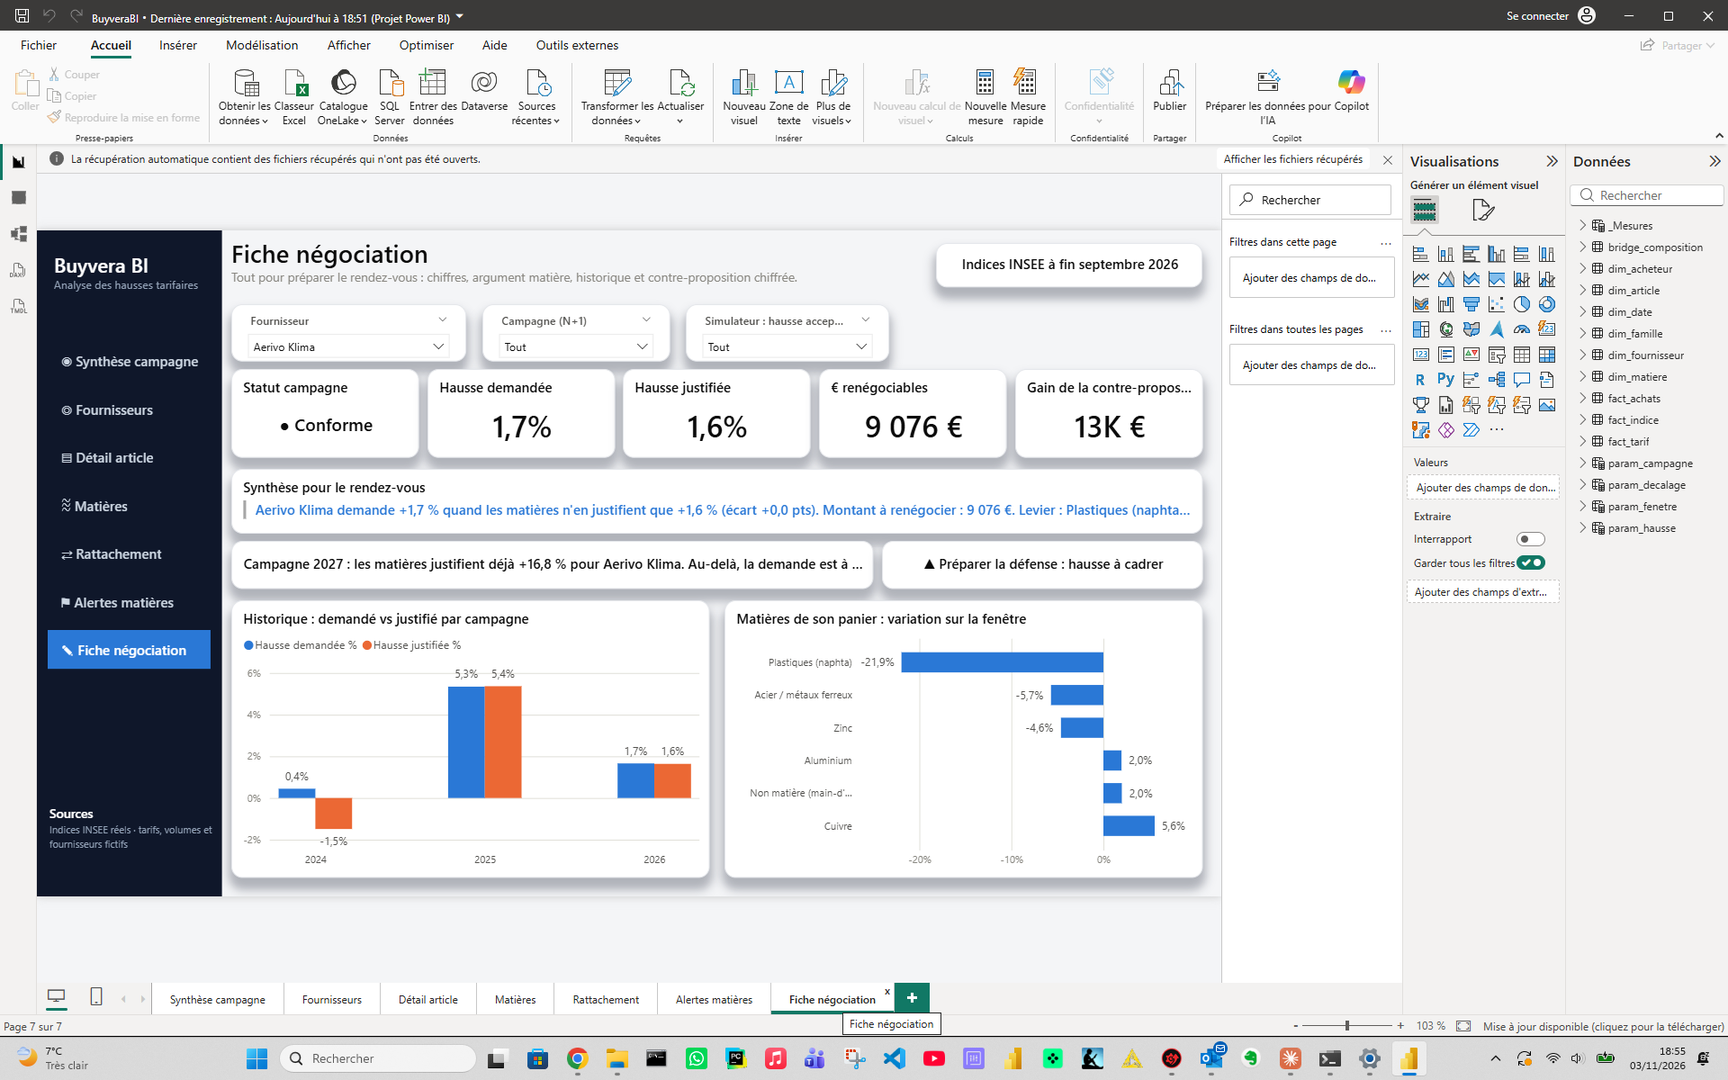
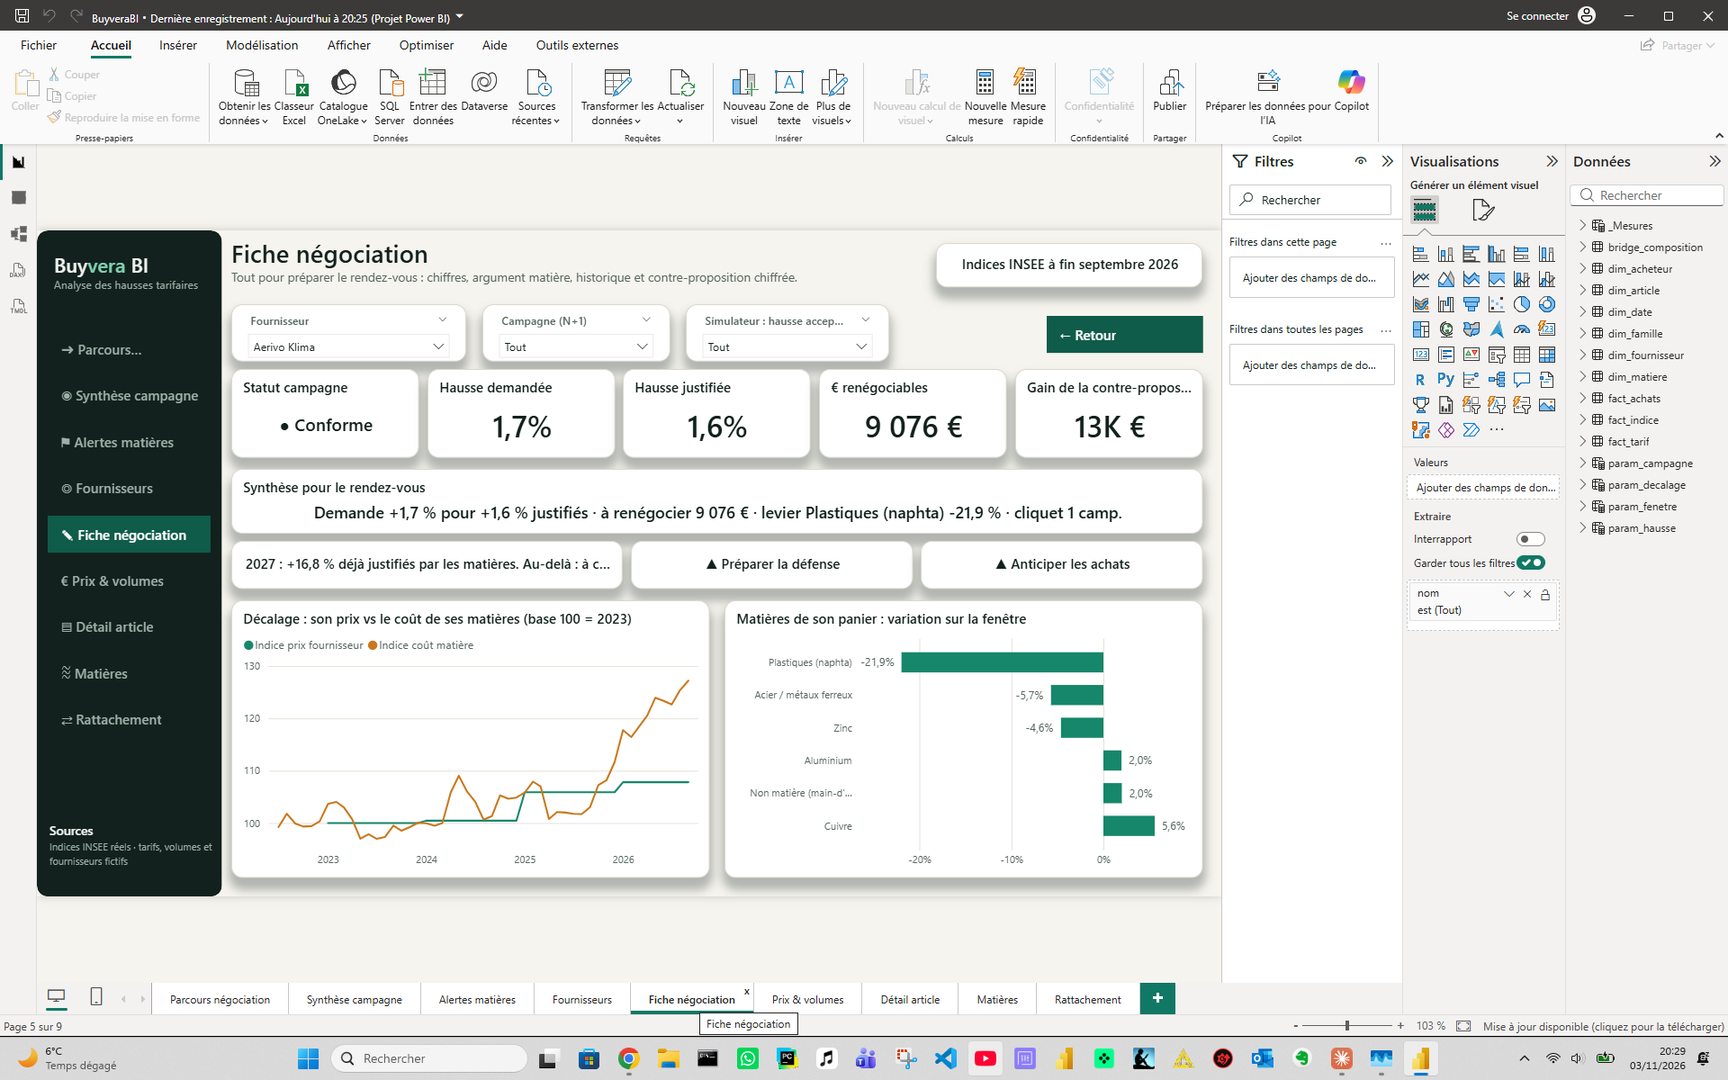
Buyvera : parcours de négociation, prix et volumes année sur année, décalage, extraction
- Couleurs Buyvera (vert marque, menthe, ambre signal, papier) ; palette de séries validée
- Page Parcours négociation : 5 étapes reliées aux pages, chiffres clés, courbe de décalage
- Page Prix & volumes : montant, volumes, effet prix à volumes constants vs N-1 à date
- Courbes prix fournisseur vs coût matière (fact_indice_fournisseur, base 100 = 2023)
- Extraction (clic droit) vers Fiche négociation et Détail article, boutons Retour
- Fiche : courbe de décalage, matières colorées baisse / hausse

diff --git a/scripts/build_pbip.py b/scripts/build_pbip.py
@@ -654,6 +654,10 @@ RETURN
      """VAR _t = FILTER ( fact_achats, NOT ISBLANK ( fact_achats[prix_unitaire] ) && NOT ISBLANK ( fact_achats[prix_unitaire_n1] ) )
 RETURN
     SUMX ( _t, fact_achats[quantite] * ( fact_achats[prix_unitaire] - fact_achats[prix_unitaire_n1] ) )"""),
+    ("Couleur variation", "6. Négociation", "", "Vert marque si la matière baisse (levier acheteur), ambre signal si elle monte.",
+     """VAR _v = [Variation matière article %]
+RETURN
+    IF ( ISBLANK ( _v ), "#56655F", IF ( _v < 0, "#0F5C4A", "#C9781C" ) )"""),
     ("Nb fournisseurs à renégocier", "6. Négociation", "0", "Fournisseurs dont l'écart dépasse 3 points.",
      "COUNTROWS ( FILTER ( VALUES ( dim_fournisseur[nom] ), [Écart pts] > 3 ) )"),
     ("Conseil appro", "7. Alertes", "",
@@ -891,7 +895,7 @@ PAGES = [
         v("lineChart", 20, 260, 610, 440,
           {"Category": [("c", "dim_date", "mois_court")], "Series": [("c", "dim_date", "annee")], "Y": [m("Quantité achetée")]},
           titre="Volumes par mois : une courbe par année", ordre=(("c", "dim_date", "mois_court"), 1),
-          filtres=[(("c", "dim_date", "annee"), [2023, 2024, 2025, 2026])]),
+          filtres=[(("c", "dim_date", "annee"), [2024, 2025, 2026])]),
         v("tableEx", 650, 260, 610, 440,
           {"Values": [FOURN, m("Montant achats"), m("Évol. montant %"), m("Évol. volume %"), m("Effet prix %"), m("Surcoût prix €")]},
           titre="Par fournisseur, 2026 à date vs 2025 · clic droit → Extraire → Fiche", ordre=(m("Surcoût prix €"), 2),
@@ -922,8 +926,8 @@ PAGES = [
           titre="Décalage : son prix vs le coût de ses matières (base 100 = 2023)", objets={"continu": True}),
         v("clusteredBarChart", 650, 400, 610, 300,
           {"Category": [("c", "dim_matiere", "libelle")], "Y": [m("Variation matière article %")]},
-          titre="Matières de son panier : variation sur la fenêtre", ordre=(m("Variation matière article %"), 1),
-          objets={"labels": True}),
+          titre="Matières de son panier : vert = baisse (levier), ambre = hausse", ordre=(m("Variation matière article %"), 1),
+          objets={"labels": True, "couleur_barres": "Couleur variation"}),
     ]),
 ]
 
@@ -947,6 +951,7 @@ ORDRE = ["Parcours négociation", "Synthèse campagne", "Alertes matières", "Fo
          "Prix & volumes", "Détail article", "Matières", "Rattachement"]
 PAGES.sort(key=lambda p: ORDRE.index(p[0]))
 ICONES = ["➜", "◉", "⚑", "◎", "✎", "€", "▤", "≋", "⇄"]
+COURT = {"Parcours négociation": "Parcours"}  # libellés de navigation raccourcis
 # Pages cibles d'extraction (clic droit → Extraire) : champ transmis
 EXTRACTION = {"Fiche négociation": ("dim_fournisseur", "nom"), "Détail article": ("dim_article", "designation")}
 
@@ -1020,7 +1025,7 @@ def barre_navigation(page: int) -> list[dict]:
            objets={"blanc": True})]
     for i, (nom, _) in enumerate(PAGES):
         l.append(v("nav", 12, 108 + i * 50, LARGEUR_NAV - 24, 40,
-                   objets={"cible": i, "texte": f"{ICONES[i]}   {nom}", "actif": i == page}))
+                   objets={"cible": i, "texte": f"{ICONES[i]}   {COURT.get(nom, nom)}", "actif": i == page}))
     l.append(v("textbox", 14, 640, 180, 70,
                texte=("Sources", "Indices INSEE réels · tarifs, volumes et fournisseurs fictifs"),
                objets={"blanc": True, "petit": True}))

diff --git a/docs/dictionnaire.md b/docs/dictionnaire.md
@@ -2,7 +2,7 @@
 
 Généré par `scripts/export_dictionary.py` depuis le modèle TMDL (`pbip/BuyveraBI.SemanticModel`). Ne pas modifier à la main.
 
-17 tables · 80 colonnes · 53 mesures · 14 relations · 2 rôles
+18 tables · 86 colonnes · 64 mesures · 16 relations · 2 rôles
 
 ## Sommaire
 
@@ -18,6 +18,7 @@ Généré par `scripts/export_dictionary.py` depuis le modèle TMDL (`pbip/Buyve
 - [fact_hausse_article](#fact_hausse_article) — Précalcul (scripts/precalcul_hausses.py) : hausse par article pour chaque campagne N+1, fenêtre et décalage. Rend les mesures instantanées.
 - [fact_impact_matiere](#fact_impact_matiere) — Précalcul : surcoût justifié par chaque matière pour chaque article à la prochaine campagne.
 - [fact_indice](#fact_indice) — Indices matières mensuels réels (INSEE BDM) et série d'hypothèse non matière à 2 %/an.
+- [fact_indice_fournisseur](#fact_indice_fournisseur) — Précalcul : indice mensuel par fournisseur (base 100 = tarif 2023) du prix fournisseur et du coût matière de son panier. L'écart montre le décalage de répercussion.
 - [fact_tarif](#fact_tarif) — Prix brut public par article et par campagne tarifaire (synthétique).
 - [param_campagne](#param_campagne) — Campagne N+1 analysée (comparée à la campagne N = N+1 − 1). Table déconnectée pour le segment.
 - [param_decalage](#param_decalage) — Décalage d'application : nombre de mois entre l'évolution du cours matière et sa répercussion dans le tarif.
@@ -44,6 +45,8 @@ Toutes de plusieurs vers un, filtrage dans un seul sens.
 | `fact_hausse_article.article_id` | `dim_article.article_id` |
 | `fact_impact_matiere.article_id` | `dim_article.article_id` |
 | `fact_impact_matiere.matiere_id` | `dim_matiere.matiere_id` |
+| `fact_indice_fournisseur.fournisseur_id` | `dim_fournisseur.fournisseur_id` |
+| `fact_indice_fournisseur.date` | `dim_date.date` |
 
 ## Sécurité par ligne
 
@@ -84,6 +87,12 @@ Toutes de plusieurs vers un, filtrage dans un seul sens.
 | Montant achats | `#,0 €` | Quantités × prix brut du tarif de l'année d'achat. |
 | Quantité achetée | `#,0` | Quantités achetées. |
 | Nb articles | `#,0` | Nombre d'articles. |
+| Quantité N-1 | `#,0` | Quantités de la même période un an plus tôt, coupée au dernier mois d'achat connu (comparaison à date). |
+| Montant N-1 | `#,0 €` | Montant des achats de la même période un an plus tôt, à date. |
+| Évol. volume % | `+0.0%;-0.0%;0.0%` | Quantités vs même période N-1. |
+| Évol. montant % | `+0.0%;-0.0%;0.0%` | Montant des achats vs même période N-1. |
+| Effet prix % | `+0.0%;-0.0%;0.0%` | Hausse de prix subie à volumes constants : Σ qté × (prix N − prix N-1) / Σ qté × prix N-1, sur les articles achetés les deux années. |
+| Surcoût prix € | `#,0 €` | Euros payés en plus par la seule hausse de prix, à volumes constants. |
 
 ### 4. Rattachement
 
@@ -112,6 +121,8 @@ Toutes de plusieurs vers un, filtrage dans un seul sens.
 | Statut fournisseur | `` | Statut lisible (icône + libellé) : À renégocier, À surveiller ou Conforme. |
 | Levier matière | `` | Matière du panier du fournisseur qui a le plus baissé sur la fenêtre : argument de négociation. |
 | Commentaire négociation | `` | Phrase de synthèse générée pour le fournisseur sélectionné (support de négociation). |
+| Couleur variation | `` | Vert marque si la matière baisse (levier acheteur), ambre signal si elle monte. |
+| Nb fournisseurs à renégocier | `0` | Fournisseurs dont l'écart dépasse 3 points. |
 
 ### 7. Alertes
 
@@ -142,6 +153,9 @@ Toutes de plusieurs vers un, filtrage dans un seul sens.
 | Délai baisses (mois) | `0.0` | Décalage moyen de répercussion sur les campagnes où les matières baissent (12 = baisse jamais vraiment répercutée). |
 | Asymétrie (mois) | `+0.0;-0.0;0.0` | Délai baisses − délai hausses : positif = le fournisseur répercute les hausses plus vite que les baisses. |
 | Écart au meilleur décalage | `+0.0;-0.0;0.0` | Écart (pts) restant une fois le décalage du fournisseur pris en compte : ce qui reste n'est pas expliqué par les matières. |
+| Indice prix fournisseur | `0.0` | Prix du tarif en vigueur, base 100 = tarif 2023 (panier fixe, en marches d'escalier aux campagnes). |
+| Indice coût matière | `0.0` | Coût matière du même panier, base 100 = référence du tarif 2023 (Σ part × indice INSEE). |
+| Écart prix / matière (pts) | `+0.0;-0.0;0.0` | Indice prix − indice coût matière : positif = le fournisseur facture plus que l'évolution de ses matières. |
 
 ### 9. Paramètres
 
@@ -211,6 +225,7 @@ Calendrier journalier 2022-2026. Les faits mensuels pointent sur le 1er du mois.
 | `trimestre` | string | oui | Trimestre (T1 à T4). |
 | `debut_mois` | boolean | non | Vrai le 1er du mois. |
 | `campagne` | int64 | oui | Campagne tarifaire en vigueur à cette date (tarif au 1er janvier). |
+| `mois_court` | string (calculée) | oui | Mois en clair sans l'année (axe des comparaisons année sur année). |
 
 ### dim_famille
 
@@ -262,6 +277,7 @@ Quantités achetées par article et par mois (synthétique, Pareto 80/20).
 | `quantite` | int64 | oui | Quantité achetée sur le mois. |
 | `prix_unitaire` | double (calculée) | non | Prix brut du tarif en vigueur l'année de l'achat. |
 | `montant` | double (calculée) | non | Quantité × prix brut de l'année. |
+| `prix_unitaire_n1` | double (calculée) | non | Prix brut du tarif de l'année précédant l'achat (effet prix). |
 
 ### fact_hausse_article
 
@@ -300,6 +316,17 @@ Indices matières mensuels réels (INSEE BDM) et série d'hypothèse non matièr
 | `matiere_id` | string | non | Matière. |
 | `date` | dateTime | non | Mois de l'indice (1er du mois). |
 | `valeur_eur` | double | oui | Valeur de l'indice (base 2010 en euros, ou €/t pour CU_T). |
+
+### fact_indice_fournisseur
+
+Précalcul : indice mensuel par fournisseur (base 100 = tarif 2023) du prix fournisseur et du coût matière de son panier. L'écart montre le décalage de répercussion.
+
+| Colonne | Type | Visible | Description |
+|---|---|---|---|
+| `fournisseur_id` | string | non | Fournisseur. |
+| `date` | dateTime | non | Mois (1er du mois). |
+| `indice_cout_matiere` | double | non | Coût matière du panier fixe du fournisseur, base 100 = référence du tarif 2023. |
+| `indice_prix` | double | non | Prix du tarif en vigueur sur le même panier, base 100 = tarif 2023. |
 
 ### fact_tarif
 

diff --git a/README.md b/README.md
@@ -1,7 +1,7 @@
 # Buyvera BI : cette hausse fournisseur est-elle justifiée ?
 
 Chaque année, les fournisseurs envoient leurs nouveaux tarifs avec une hausse « justifiée par les matières premières ».
-Ce projet Power BI compare la hausse demandée avec l'évolution **réelle** des matières qui composent chaque produit
+Ce projet Power BI, aux couleurs de Buyvera, compare la hausse demandée avec l'évolution **réelle** des matières qui composent chaque produit
 (indices INSEE), et dit à l'acheteur, fournisseur par fournisseur, combien d'euros il peut renégocier, et ce qu'il
 doit anticiper pour la campagne suivante.
 
@@ -19,13 +19,15 @@ distribution industrielle (transmission mécanique et CVC).
 
 | Page | Question à laquelle elle répond |
 |---|---|
+| **Parcours négociation** | Point d'entrée : 5 étapes (détecter, chiffrer, cibler, comprendre, négocier), chacune ouvre sa page ; courbe prix fournisseurs vs coût matière. |
 | **Synthèse campagne** | Combien d'euros renégocier, chez qui, sur quelles familles ? |
 | **Fournisseurs** | Qui demande plus que ses matières ne le justifient ? Nuage animé 2024 → 2026, classement avec statut. |
 | **Détail article** | De quoi est fait cet article, comment ont évolué ses matières et son prix sur 4 campagnes ? |
 | **Matières** | Quels indices bougent ? Fenêtre de référence (3, 6, 12 mois) et **décalage d'application** paramétrables, délai de répercussion des hausses vs des baisses. |
 | **Rattachement** | Quelle part des références tarif se rattache seule à l'ERP (objectif 80 %) ? Liste des propositions à valider. |
 | **Alertes matières** | Ce qui monte ou baisse avant que le commercial ne le dise : signal 3 mois, plafond justifié pour la campagne suivante, articles exposés et plan d'action (convoquer le commercial, préparer la défense, limiter ou anticiper les achats). |
-| **Fiche négociation** | Tout pour le rendez-vous : statut, argument rédigé, levier matière, historique, **simulateur de contre-proposition**. |
+| **Prix & volumes** | Année sur année, à date : montant, volumes, **effet prix à volumes constants**, surcoût par fournisseur, une courbe de volumes par année. |
+| **Fiche négociation** | Tout pour le rendez-vous : statut, argument rédigé, **courbe de décalage prix vs coût matière**, levier matière coloré, **simulateur de contre-proposition**. Accessible par clic droit → Extraire depuis n'importe quel fournisseur. |
 
 | Fournisseurs | Alertes matières | Fiche négociation |
 |---|---|---|
